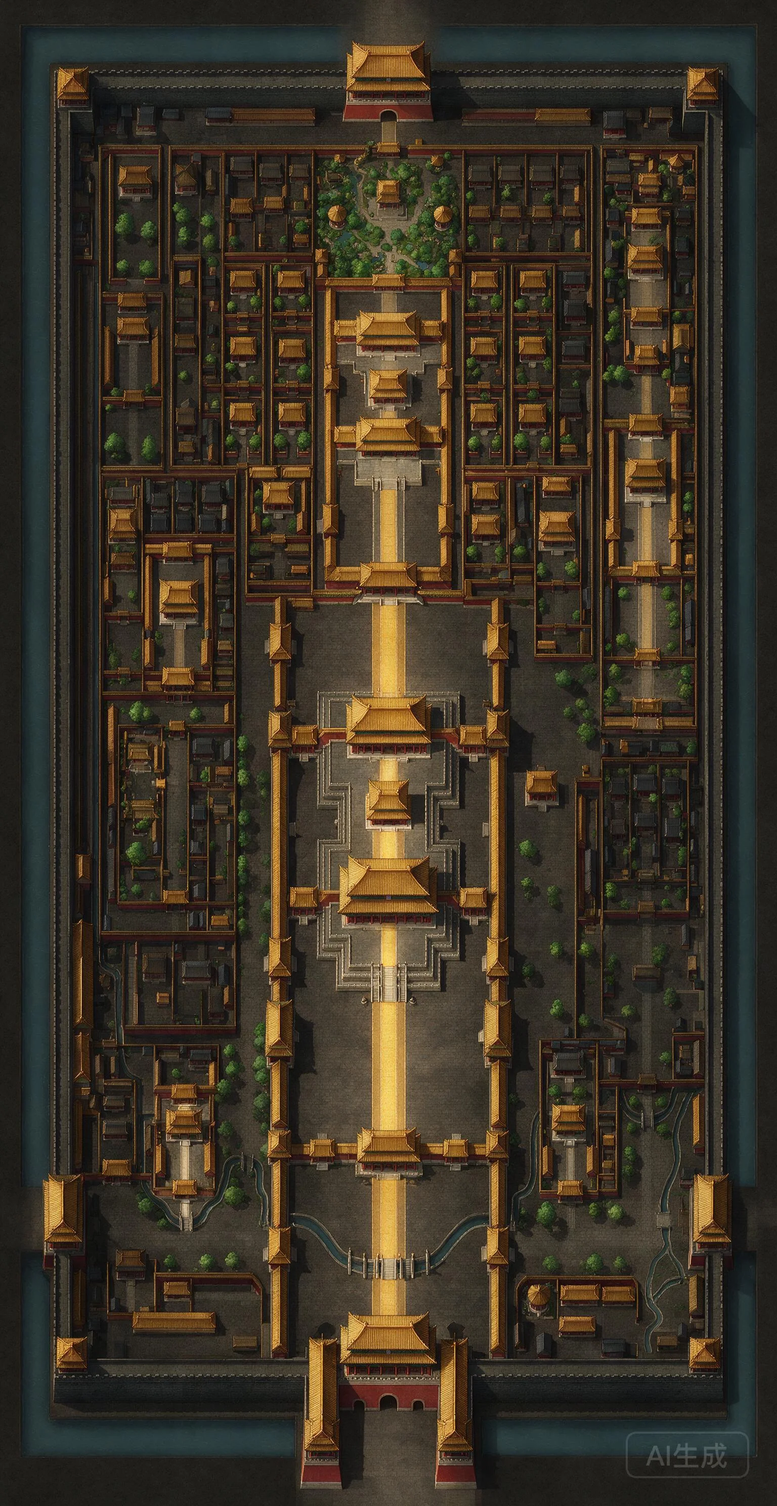
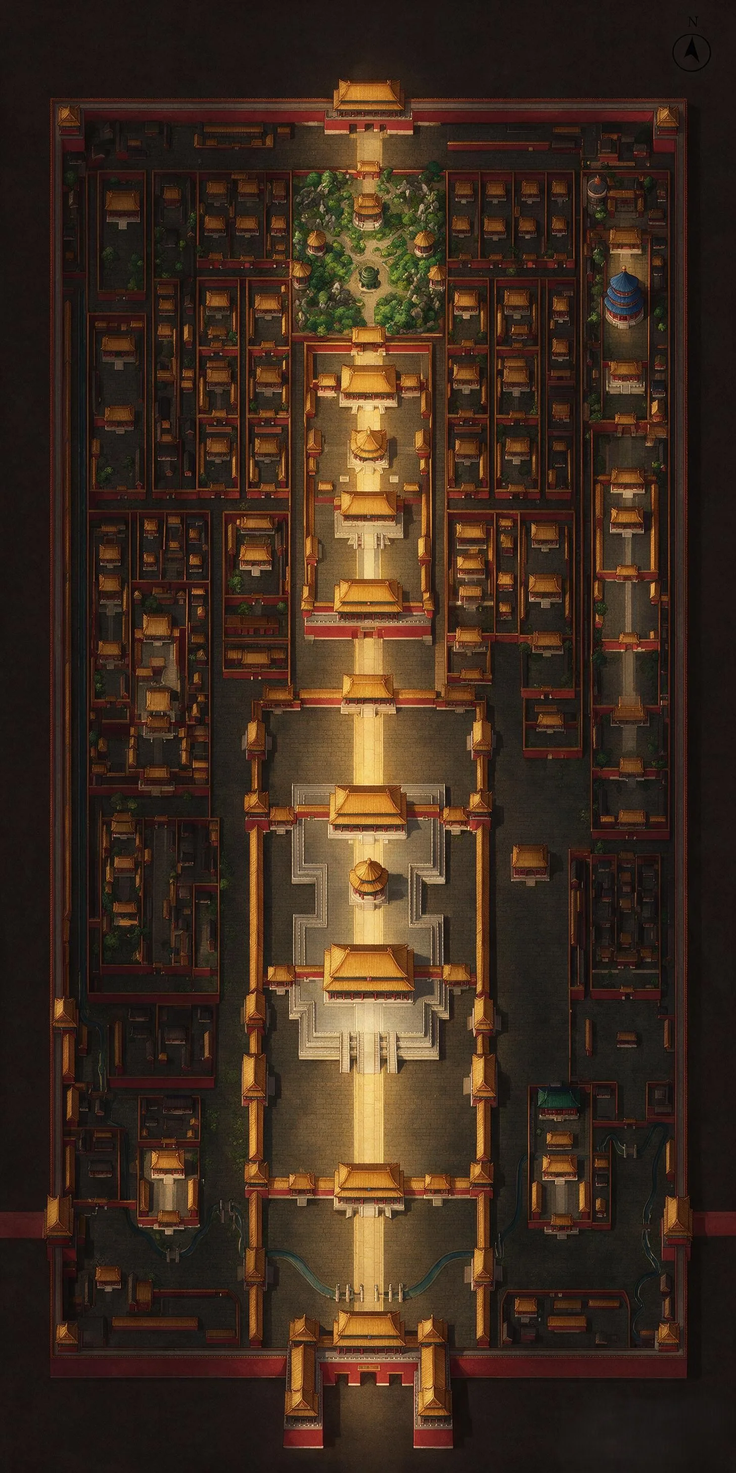
feat: 切换到精确紫禁城平面图，逐殿对位交互点
- 用精确 palace_plan_precise（32 处建筑清晰、可按真实方位对位）替换泛化平面图
- 依精确图目视 + 检测重定 17 座可点殿宇与装饰楼宇热点坐标
- 新增 tools/check_hotspots.py（热点叠加校验）与 precise_buildings.py（转换+检测参考）
- 移除旧的泛化 palace_plan.png；SW 缓存 v25→v26

diff --git a/js/ui.js b/js/ui.js
@@ -91,53 +91,53 @@ Sophrosyne.UI = (function () {
     yuhuayuan:    [ { label: "本殿事务", targets: ["[data-venue-info=yuhuayuan]"] } ],
   };
 
-  // 宫殿交互点（x/y=中心, s=热点边长, l=标签, v=点击进入的视图）——按真实紫禁城排布
+  // 宫殿交互点（x/y=中心, s=热点边长, l=标签, v=点击进入的视图）——按精确紫禁城平面图对位
   const PALACE = [
     // 中轴（北→南）
-    { x: 320, y: 51,  s: 66,  l: "神武门" },
-    { x: 320, y: 172, s: 92,  l: "御花园", v: "yuhuayuan" },
-    { x: 320, y: 267, s: 80,  l: "坤宁宫", v: "kunninggong" },
-    { x: 320, y: 355, s: 64,  l: "交泰殿" },
-    { x: 320, y: 433, s: 100, l: "乾清宫", v: "court" },
-    { x: 320, y: 477, s: 72,  l: "乾清门" },
-    { x: 320, y: 549, s: 86,  l: "保和殿", v: "baohe" },
-    { x: 320, y: 655, s: 64,  l: "中和殿" },
-    { x: 320, y: 858, s: 118, l: "太和殿", v: "focus" },
-    { x: 320, y: 1003, s: 84, l: "太和门", v: "taihemen" },
-    { x: 320, y: 1083, s: 84, l: "午门" },
-    // 西侧（内廷·养心殿/军机处/隆宗门 + 西六宫；外朝·武英殿/弘义阁）
-    { x: 112, y: 214, s: 66, l: "慈宁宫" },
-    { x: 96,  y: 290, s: 46, l: "永寿宫" },
-    { x: 142, y: 290, s: 46, l: "翊坤宫" },
-    { x: 96,  y: 362, s: 46, l: "储秀宫" },
-    { x: 142, y: 362, s: 46, l: "咸福宫" },
-    { x: 96,  y: 434, s: 46, l: "长春宫" },
-    { x: 142, y: 434, s: 46, l: "太极殿" },
-    { x: 98,  y: 470, s: 74, l: "养心殿", v: "chain" },
-    { x: 150, y: 500, s: 54, l: "军机处", v: "policy" },
-    { x: 186, y: 486, s: 40, l: "隆宗门" },
-    { x: 100, y: 782, s: 82, l: "武英殿", v: "wuyingdian" },
-    { x: 172, y: 860, s: 44, l: "弘义阁" },
-    { x: 84,  y: 300, s: 54, l: "御膳房", v: "yushanfang" },
-    { x: 84,  y: 620, s: 58, l: "内务府", v: "neiweufu" },
-    { x: 34,  y: 574, s: 40, l: "西华门" },
-    // 东侧（内廷·奉先殿/上书房/景运门 + 东六宫 + 宁寿宫；外朝·文华殿/文渊阁/体仁阁）
-    { x: 540, y: 214, s: 70, l: "宁寿宫" },
-    { x: 508, y: 290, s: 46, l: "景仁宫" },
-    { x: 550, y: 290, s: 46, l: "承乾宫" },
-    { x: 508, y: 362, s: 46, l: "钟粹宫" },
-    { x: 550, y: 362, s: 46, l: "景阳宫" },
-    { x: 508, y: 434, s: 46, l: "永和宫" },
-    { x: 550, y: 434, s: 46, l: "延禧宫" },
-    { x: 505, y: 448, s: 66, l: "奉先殿", v: "history" },
-    { x: 528, y: 486, s: 60, l: "上书房", v: "shangshufang" },
-    { x: 462, y: 486, s: 40, l: "景运门" },
-    { x: 562, y: 452, s: 56, l: "畅音阁", v: "changyinge" },
-    { x: 520, y: 542, s: 56, l: "钦天监", v: "qintianjian" },
-    { x: 545, y: 722, s: 76, l: "文渊阁", v: "record" },
-    { x: 545, y: 782, s: 84, l: "文华殿", v: "wenhuadian" },
-    { x: 454, y: 860, s: 44, l: "体仁阁" },
-    { x: 612, y: 574, s: 40, l: "东华门" },
+    { x: 320, y: 81,  s: 70,  l: "神武门" },
+    { x: 320, y: 198, s: 90,  l: "御花园", v: "yuhuayuan" },
+    { x: 320, y: 310, s: 80,  l: "坤宁宫", v: "kunninggong" },
+    { x: 320, y: 384, s: 62,  l: "交泰殿" },
+    { x: 320, y: 471, s: 100, l: "乾清宫", v: "court" },
+    { x: 320, y: 546, s: 70,  l: "乾清门" },
+    { x: 320, y: 632, s: 86,  l: "保和殿", v: "baohe" },
+    { x: 320, y: 707, s: 62,  l: "中和殿" },
+    { x: 320, y: 806, s: 118, l: "太和殿", v: "focus" },
+    { x: 320, y: 967, s: 84,  l: "太和门", v: "taihemen" },
+    { x: 320, y: 1141, s: 84, l: "午门" },
+    // 西侧（内廷·西六宫/养心殿/军机处/隆宗门；外朝·武英殿/弘义阁；服务·御膳房/内务府）
+    { x: 83,  y: 248, s: 66,  l: "慈宁宫" },
+    { x: 90,  y: 328, s: 44,  l: "永寿宫" },
+    { x: 128, y: 328, s: 44,  l: "翊坤宫" },
+    { x: 90,  y: 404, s: 44,  l: "储秀宫" },
+    { x: 128, y: 404, s: 44,  l: "咸福宫" },
+    { x: 90,  y: 476, s: 44,  l: "长春宫" },
+    { x: 128, y: 476, s: 44,  l: "太极殿" },
+    { x: 98,  y: 530, s: 72,  l: "养心殿", v: "chain" },
+    { x: 130, y: 560, s: 52,  l: "军机处", v: "policy" },
+    { x: 170, y: 550, s: 38,  l: "隆宗门" },
+    { x: 150, y: 806, s: 42,  l: "弘义阁" },
+    { x: 90,  y: 918, s: 80,  l: "武英殿", v: "wuyingdian" },
+    { x: 70,  y: 719, s: 52,  l: "御膳房", v: "yushanfang" },
+    { x: 72,  y: 818, s: 54,  l: "内务府", v: "neiweufu" },
+    { x: 22,  y: 880, s: 38,  l: "西华门" },
+    // 东侧（内廷·东六宫/奉先殿/上书房/景运门/宁寿宫/畅音阁/钦天监；外朝·文华殿/文渊阁/体仁阁）
+    { x: 557, y: 248, s: 70, l: "宁寿宫" },
+    { x: 514, y: 328, s: 44, l: "景仁宫" },
+    { x: 552, y: 328, s: 44, l: "承乾宫" },
+    { x: 514, y: 404, s: 44, l: "钟粹宫" },
+    { x: 552, y: 404, s: 44, l: "景阳宫" },
+    { x: 514, y: 476, s: 44, l: "永和宫" },
+    { x: 552, y: 476, s: 44, l: "延禧宫" },
+    { x: 508, y: 484, s: 64, l: "奉先殿", v: "history" },
+    { x: 528, y: 512, s: 56, l: "上书房", v: "shangshufang" },
+    { x: 462, y: 546, s: 38, l: "景运门" },
+    { x: 566, y: 452, s: 52, l: "畅音阁", v: "changyinge" },
+    { x: 518, y: 560, s: 54, l: "钦天监", v: "qintianjian" },
+    { x: 486, y: 806, s: 42, l: "体仁阁" },
+    { x: 544, y: 818, s: 72, l: "文渊阁", v: "record" },
+    { x: 544, y: 918, s: 82, l: "文华殿", v: "wenhuadian" },
+    { x: 616, y: 880, s: 38, l: "东华门" },
   ];
 
   function init(s, opts) {

diff --git a/sw.js b/sw.js
@@ -1,7 +1,7 @@
 /* Sophrosyne — Service Worker（离线缓存）
  * 发版时务必递增 CACHE 版本号，否则 cache-first 会让老用户永远拿到旧文件。
  */
-const CACHE = "sophrosyne-v25";
+const CACHE = "sophrosyne-v26";
 const ASSETS = [
   "./",
   "./index.html",

diff --git a/tools/precise_buildings.py b/tools/precise_buildings.py
@@ -1,0 +1,60 @@
+#!/usr/bin/env python3
+"""预处理精确平面图：JPEG→WebP + 检测独立性较好的建筑中心。"""
+from PIL import Image
+from collections import deque
+
+src="assets/generated/palace_plan_precise.png"
+im=Image.open(src).convert("RGB"); W,H=im.size; px=im.load()
+print("loaded", im.format, W, "x", H, "aspect %.4f"%(W/H))
+# 存 webp（覆盖）
+im.save("assets/generated/palace_plan.webp","WEBP",quality=85)
+print("saved palace_plan.webp")
+
+# 建筑颜色（金黄屋顶/朱红墙/青灰）
+def is_build(p):
+    r,g,b=p
+    if abs(r-201)<=60 and abs(g-162)<=52 and abs(b-39)<=60: return True
+    if abs(r-192)<=52 and abs(g-57)<=46 and abs(b-43)<=46: return True
+    if abs(r-154)<=40 and abs(g-140)<=40 and abs(b-110)<=40: return True  # 灰/青灰台基
+    return False
+
+step=8; sw,sh=W//step,H//step
+d=[[0]*sw for _ in range(sh)]
+for y in range(0,H,step):
+    yy=y//step
+    for x in range(0,W,step):
+        if is_build(px[x,y]): d[yy][x//step]=1
+dense=[[0]*sw for _ in range(sh)]
+for yy in range(sh):
+    for xx in range(sw):
+        s=0
+        for dy in (-1,0,1):
+            for dx in (-1,0,1):
+                ny,nx=yy+dy,xx+dx
+                if 0<=ny<sh and 0<=nx<sw: s+=d[ny][nx]
+        dense[yy][xx]=s
+th=6
+mask=[[1 if dense[yy][xx]>=th else 0 for xx in range(sw)] for yy in range(sh)]
+seen=[[0]*sw for _ in range(sh)]; zones=[]
+for yy in range(sh):
+    for xx in range(sw):
+        if mask[yy][xx] and not seen[yy][xx]:
+            q=deque([(xx,yy)]); seen[yy][xx]=1; cells=[]
+            while q:
+                cx,cy=q.popleft(); cells.append((cx,cy))
+                for nx,ny in ((cx+1,cy),(cx-1,cy),(cx,cy+1),(cx,cy-1)):
+                    if 0<=nx<sw and 0<=ny<sh and mask[ny][nx] and not seen[ny][nx]:
+                        seen[ny][nx]=1; q.append((nx,ny))
+            if len(cells)>=14:
+                ax=sum(c for c,_ in cells)/len(cells); ay=sum(_ for _,c in cells)/len(cells)
+                zones.append((ax*step/W, ay*step/H, len(cells)))
+zones.sort(key=lambda z:(z[1],z[0]))
+print("zone count:", len(zones))
+def grp(xa,xb,label):
+    g=[z for z in zones if xa<=z[0]<xb]; g.sort(key=lambda z:z[1])
+    print("\n==",label,len(g),"==")
+    for fx,fy,n in g:
+        print("  fx=%.3f fy=%.3f n=%d -> vb(%d,%d)"%(fx,fy,n,fx*640,fy*1240))
+grp(0.02,0.34,"WEST")
+grp(0.34,0.66,"AXIS")
+grp(0.66,0.98,"EAST")

diff --git a/tools/check_hotspots.py b/tools/check_hotspots.py
@@ -1,0 +1,21 @@
+#!/usr/bin/env python3
+"""校验：把 PALACE 热点中心画到 palace_plan 上，输出叠加图供查看。"""
+import re
+from PIL import Image, ImageDraw
+
+src="assets/generated/palace_plan.webp"
+im=Image.open(src).convert("RGB"); W,H=im.size
+draw=ImageDraw.Draw(im)
+# 读取 ui.js 中 PALACE 的 {x, y, s, l, v}
+txt=open("js/ui.js",encoding="utf8").read()
+m=re.search(r'const PALACE = \[(.*?)\];', txt, re.S)
+ents=re.findall(r'\{\s*x: (\d+),\s*y: (\d+),\s*s: (\d+),\s*l: "([^"]+)"(?:,\s*v: "([^"]+)")?\s*\}', m.group(1))
+for x,y,s,l,v in ents:
+    x,y,s=int(x),int(y),int(s)
+    # viewBox 640x1240, preserveAspectRatio=none -> image fills 640x1240
+    px=x/640*W; py=y/1240*H
+    col=(0,255,0) if v else (255,140,0)
+    draw.ellipse([px-5,py-5,px+5,py+5], fill=col)
+    draw.text((px+6,py+4), l, fill=col)
+im.resize((W//2,H//2)).save("assets/generated/_hotspot_check.jpg","JPEG",quality=88)
+print("saved _hotspot_check.jpg  (green=clickable, orange=decor)")
